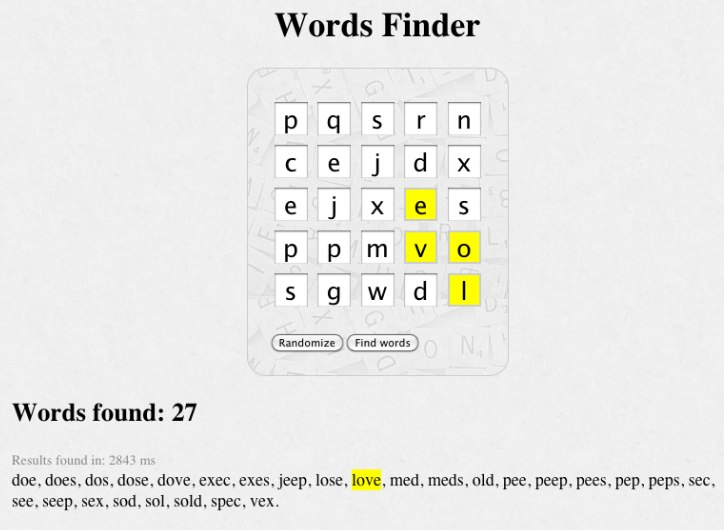
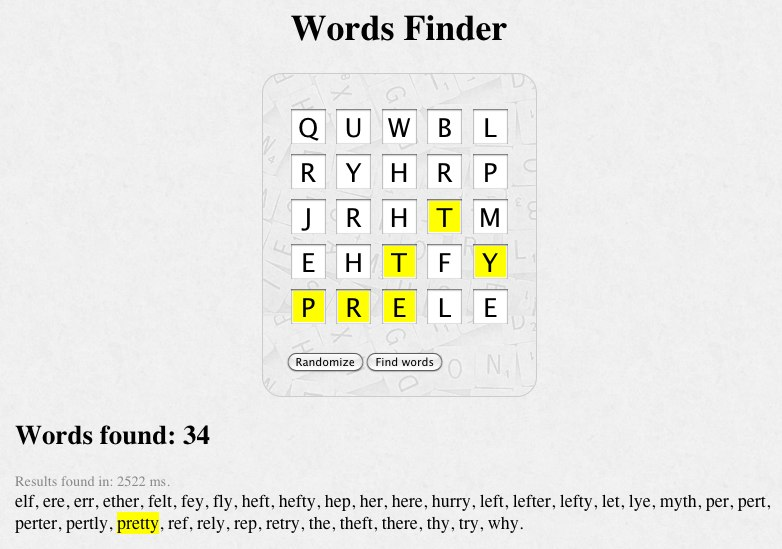
doc: improves readme + updates screenshot

diff --git a/README.md b/README.md
@@ -2,9 +2,11 @@
 
 ## Description
 
-You can either scatter letters in a ramdom fashion on a 5x5 matrix or type in letters yourself. Then you click a button to find all the existing words on the matrix. 
+You can either scatter letters in a ramdom fashion on the letters matrix or type in the letters yourself. Then you can click a button to find all the existing words in the letters matrix. 
 
 If you hover on one of the words found, its letters will highlight in the matrix.
+
+The app finds all words of 3 to 6 letters. I wish I could do up to 7 letters, but it's too slow. Could you do it? :)
 
 
 ## Screenshot
